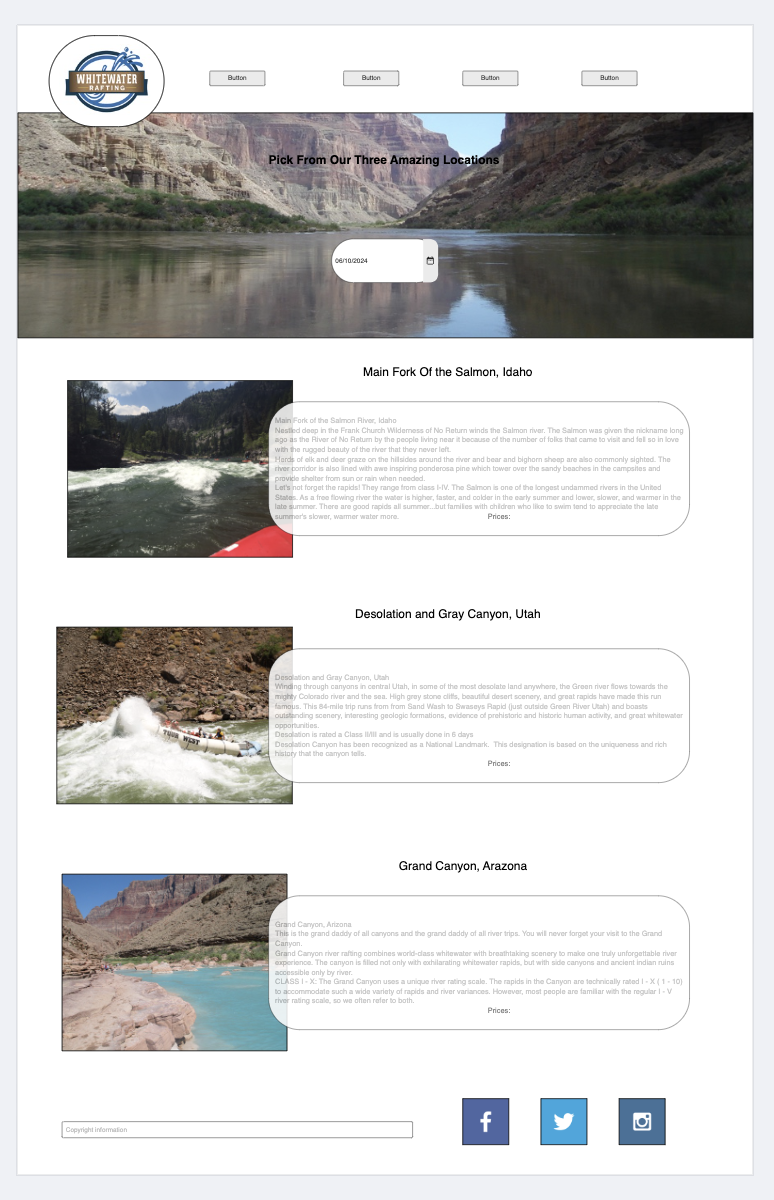
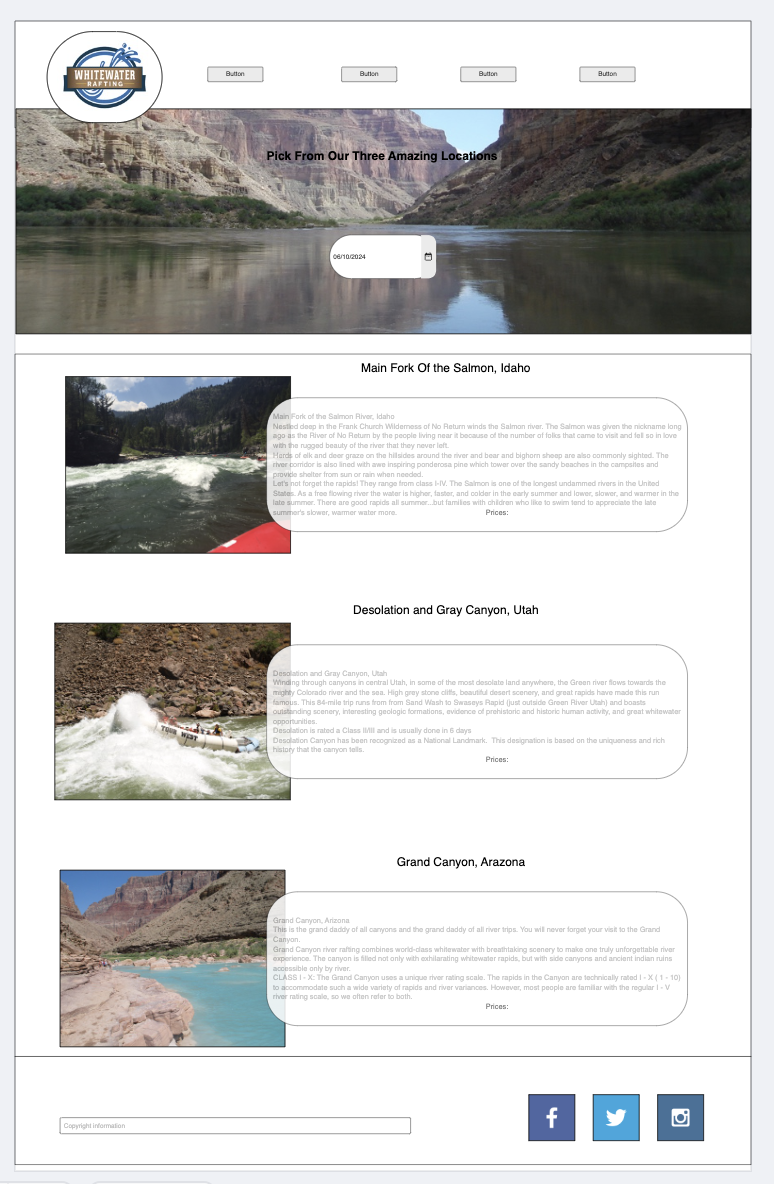
cleaning up wireframes

diff --git a/wwr/site-plan-rafting.html b/wwr/site-plan-rafting.html
@@ -130,8 +130,8 @@
 
     <h3>Rafting Locations and Prices</h3>
 
-    <img src="images/Screenshot 2024-06-10 at 4.45.04 PM.png" alt="page 2 wireframe" />
-    <img src="./images/wireframe-with-pix.png" alt="page 2 wireframe with pictures" />
+    <img src="./images/wireframe.png" alt="page 2 wireframe" />
+    <img src="images/wireframe-with-pix.png" alt="page 2 wireframe with pictures" />
   </main>
 </body>
 
